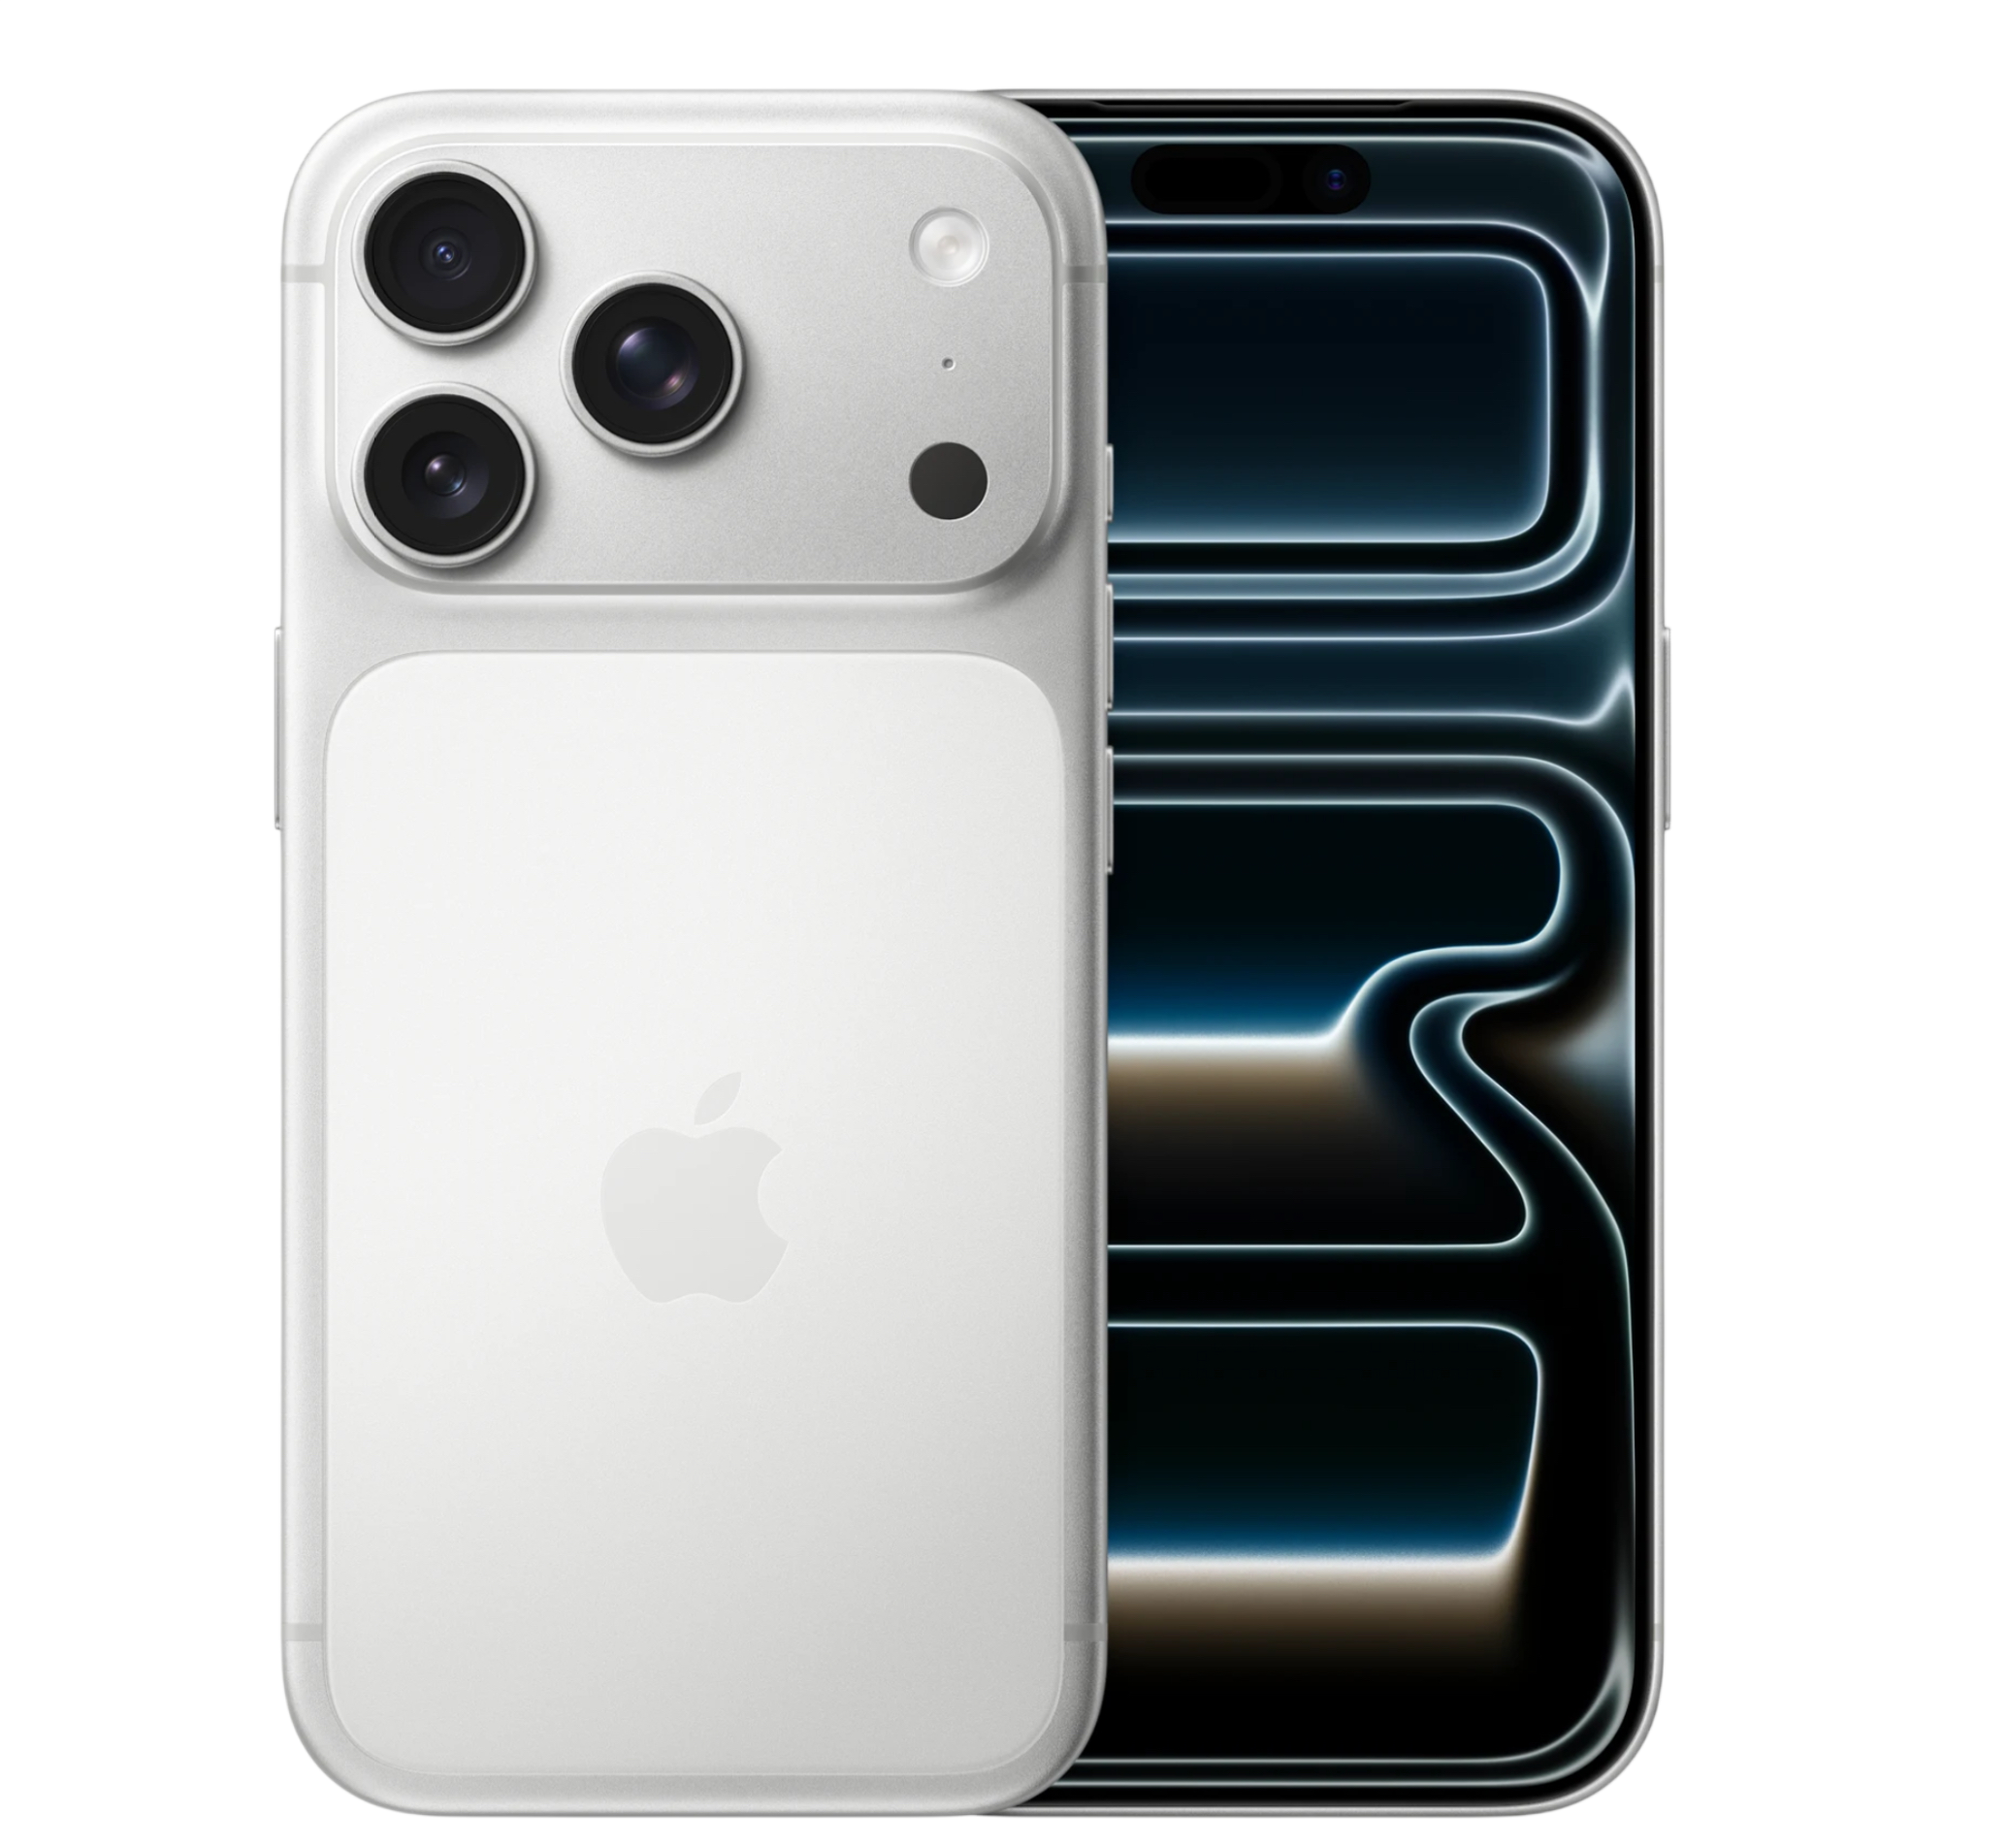
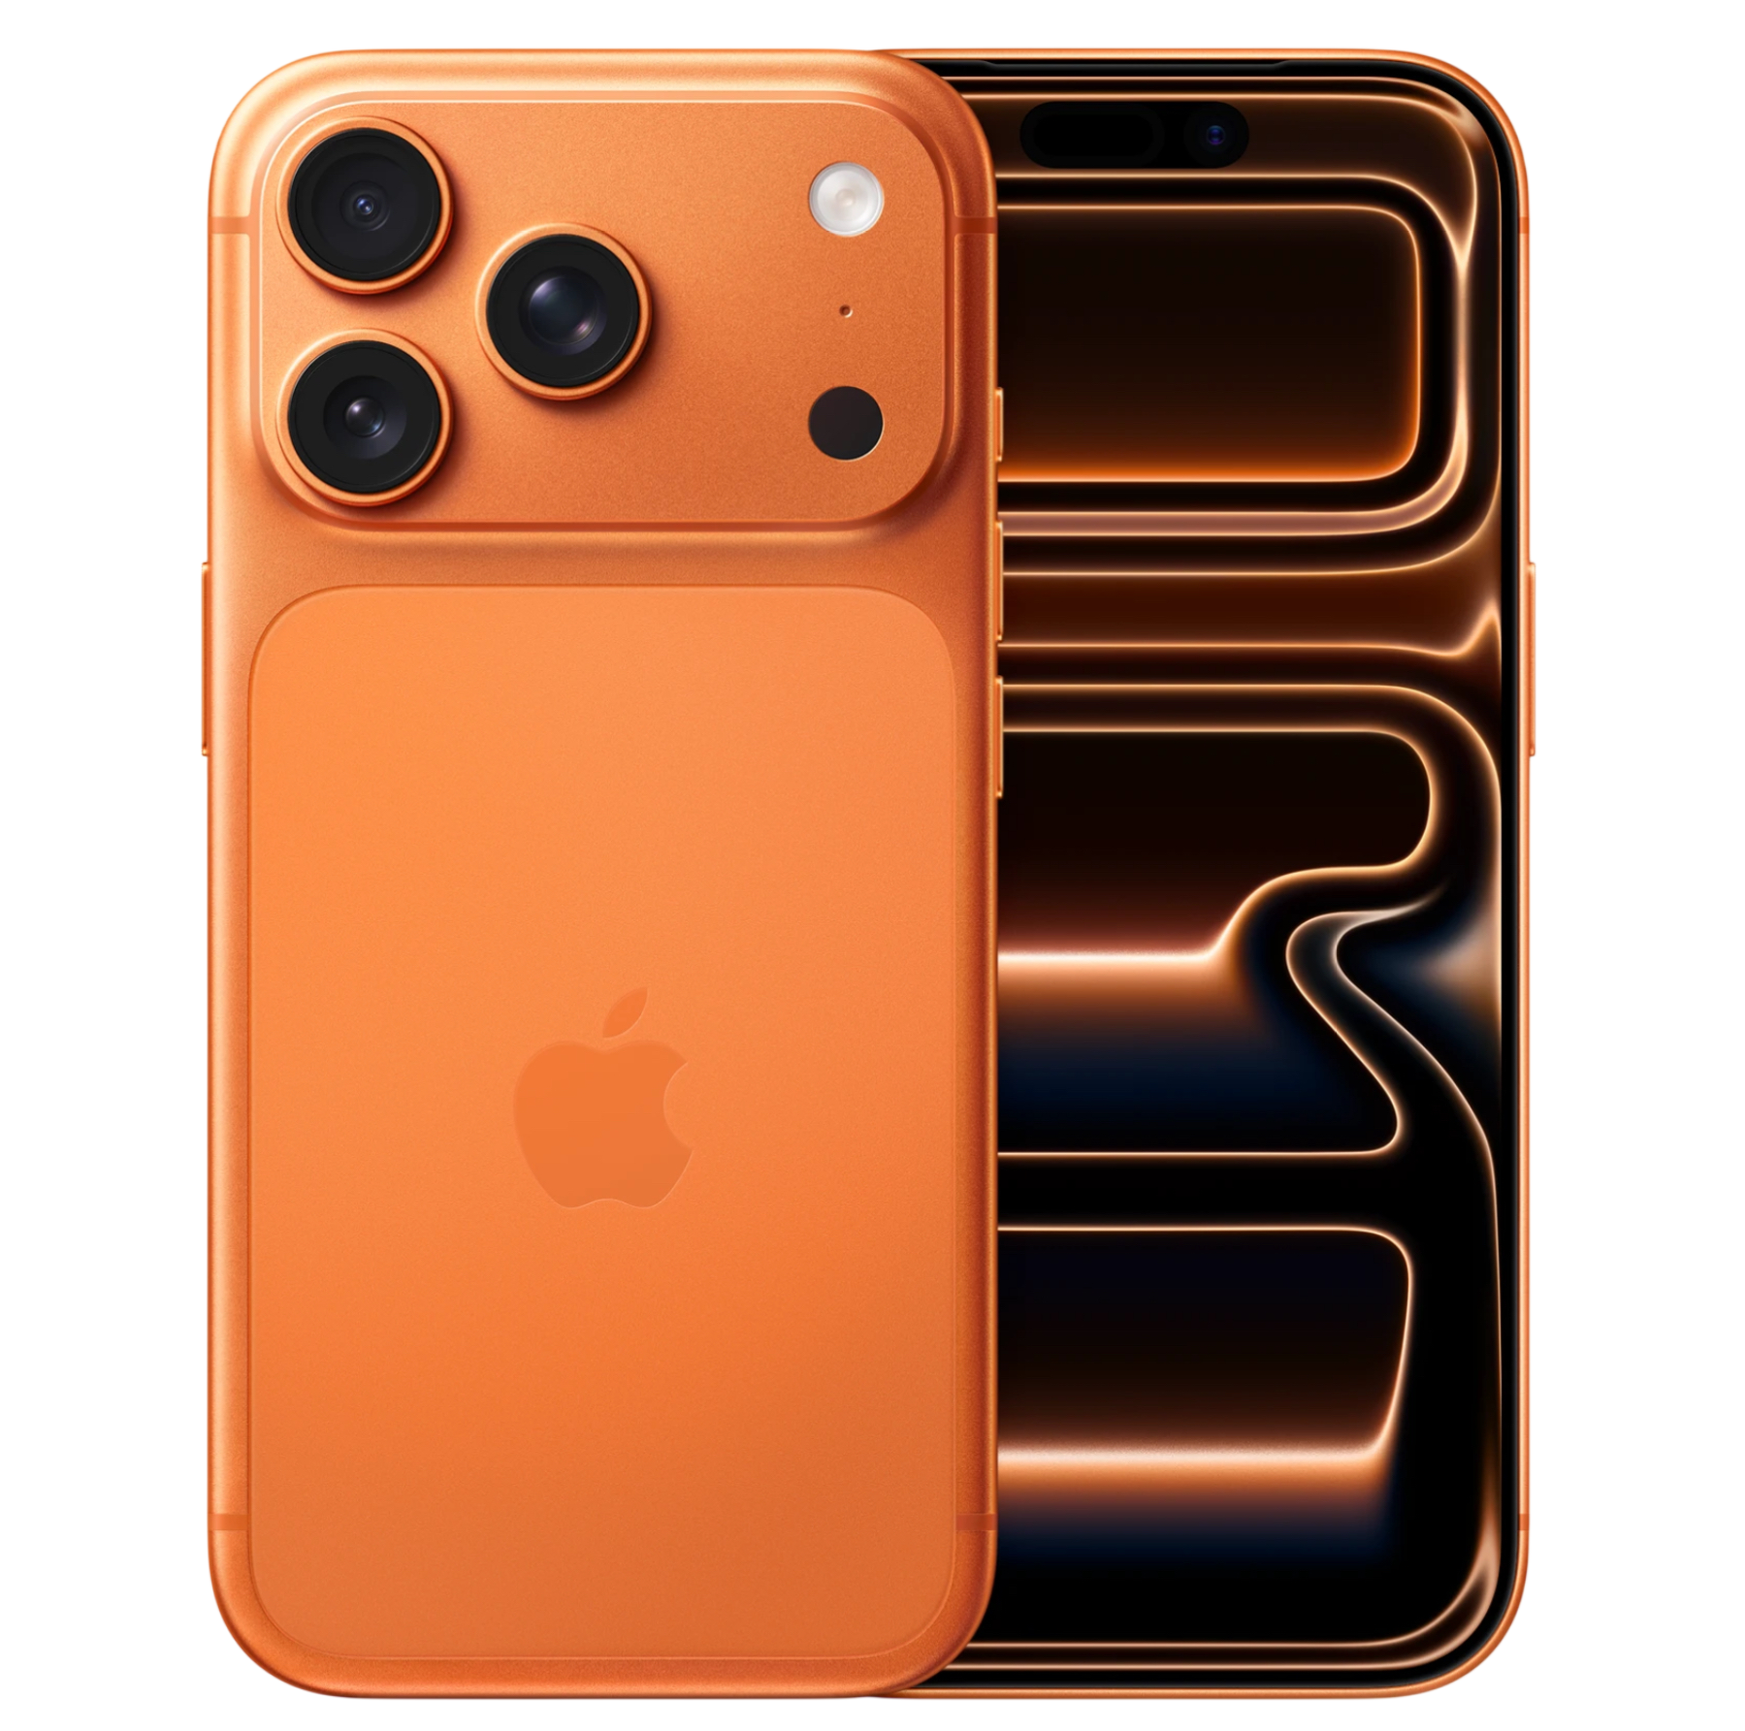
feat: configure product color variants and fix detail page imports

diff --git a/src/components/Shop/ProductDetailClient.tsx b/src/components/Shop/ProductDetailClient.tsx
@@ -1,6 +1,8 @@
 'use client';
 
+import React, { useState } from 'react';
 import toast from 'react-hot-toast';
+import { useCart } from '@/context/CartContext';
 
 interface Variant {
   color_hex: string;
